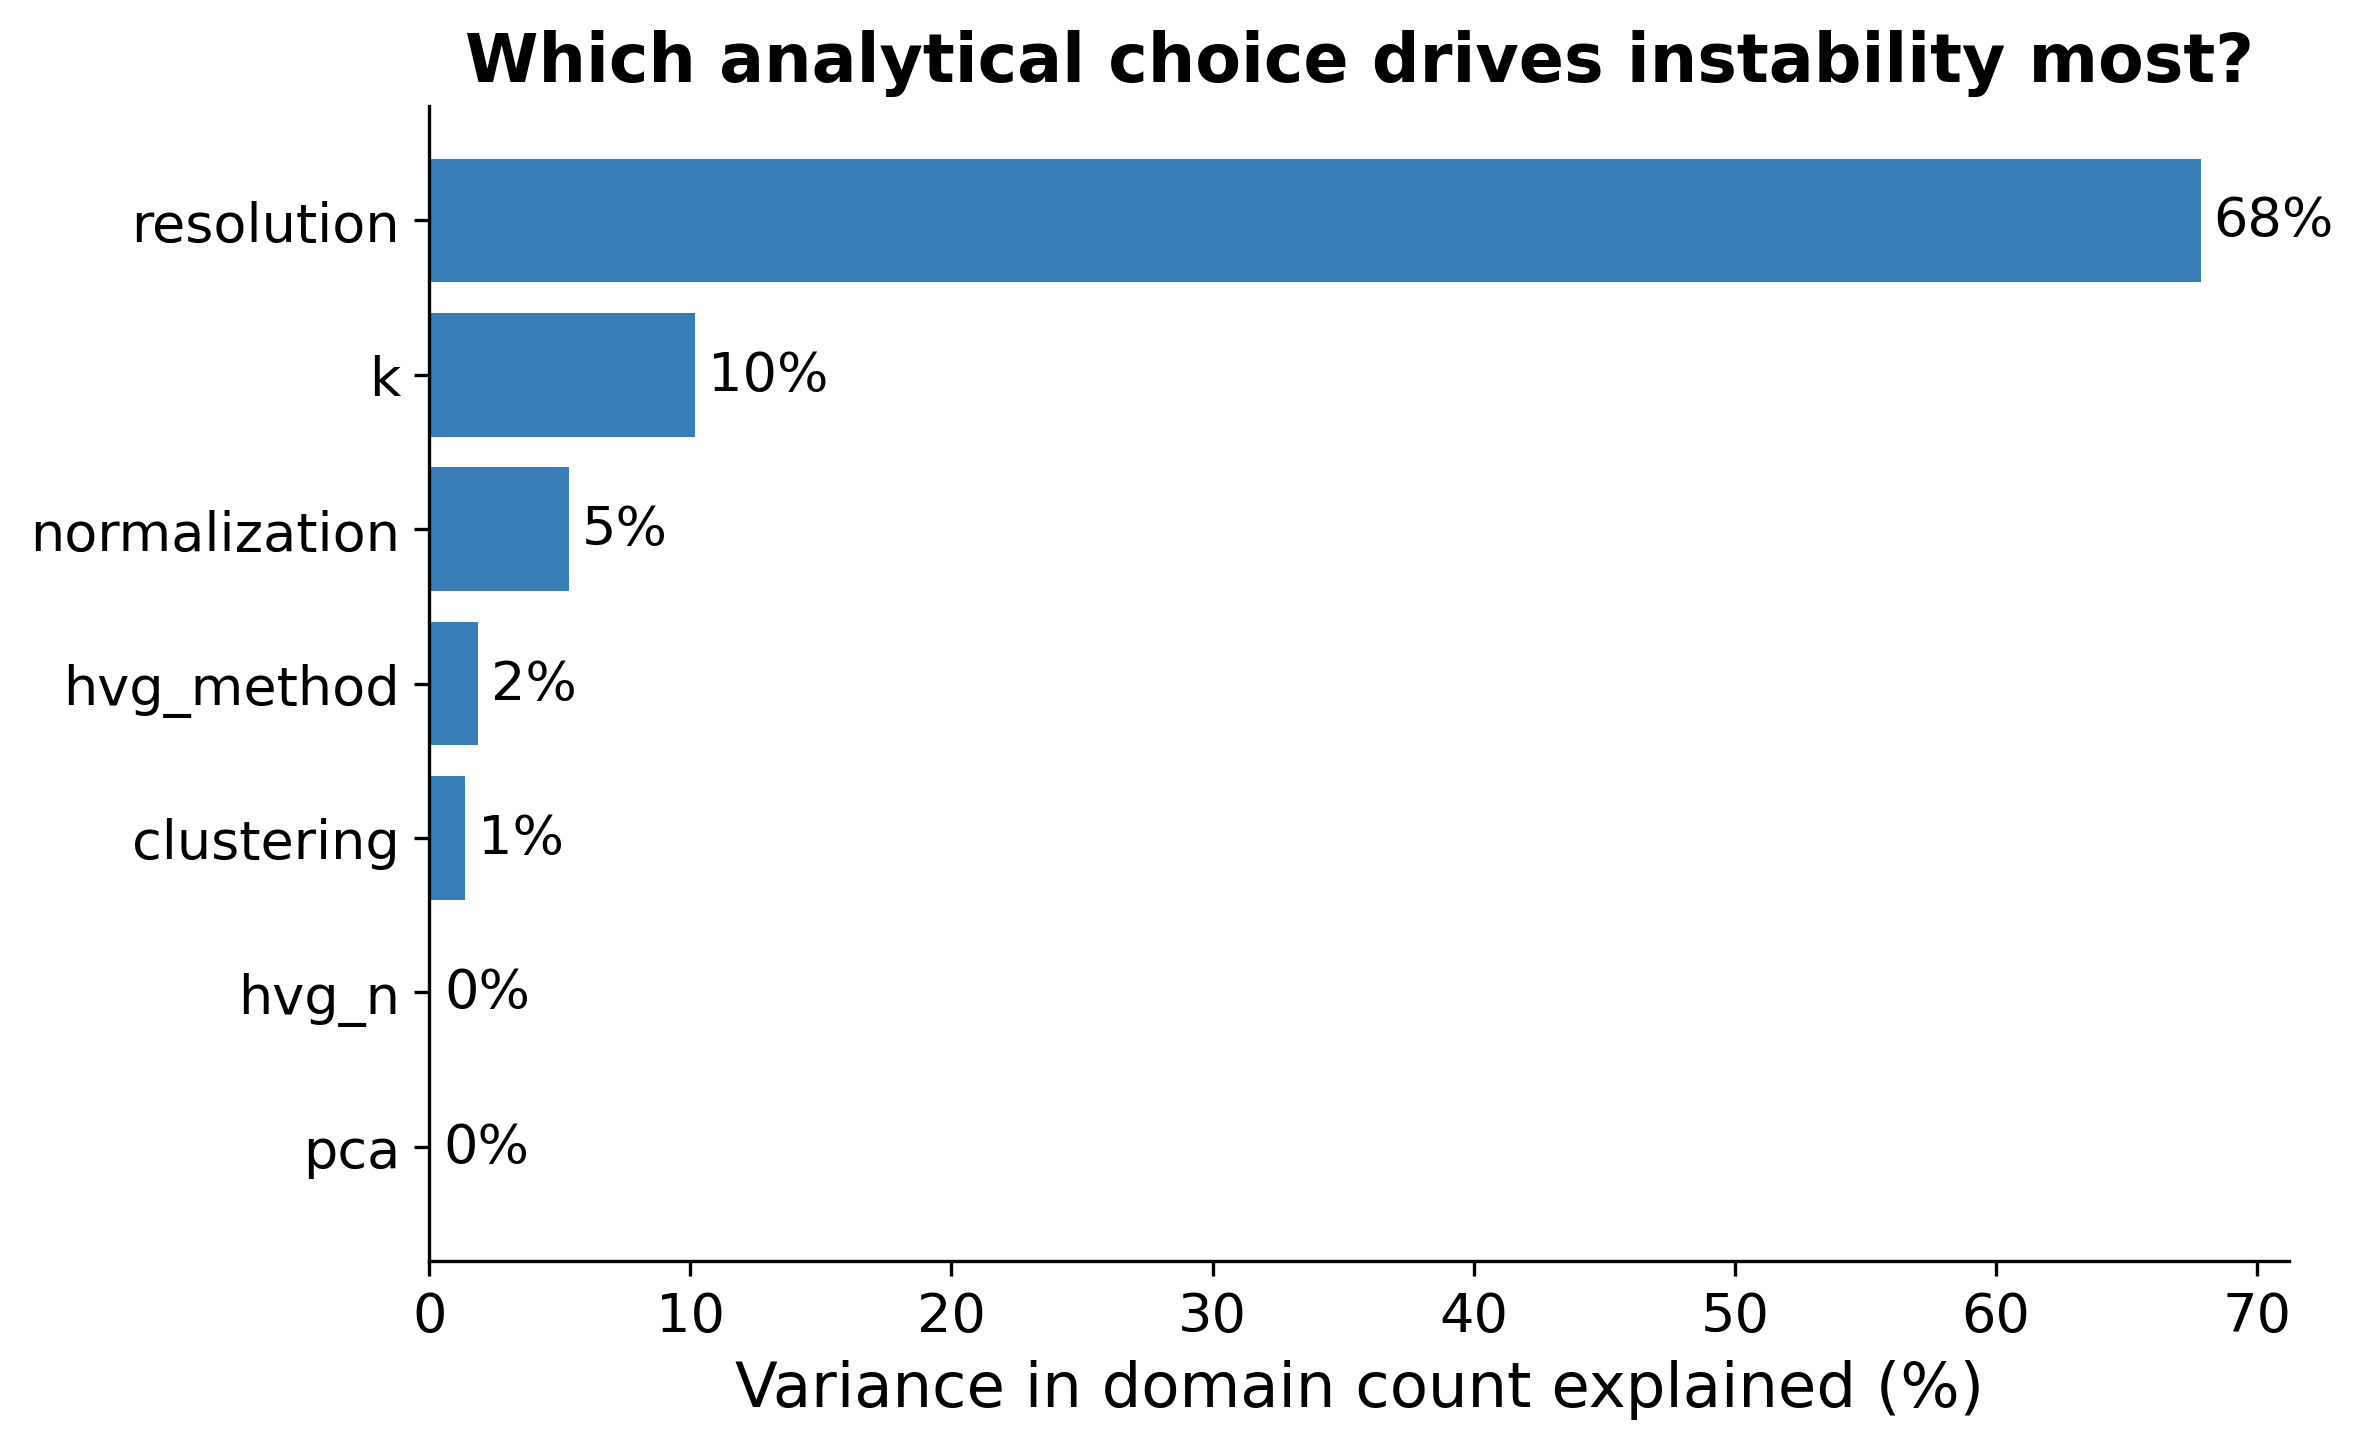
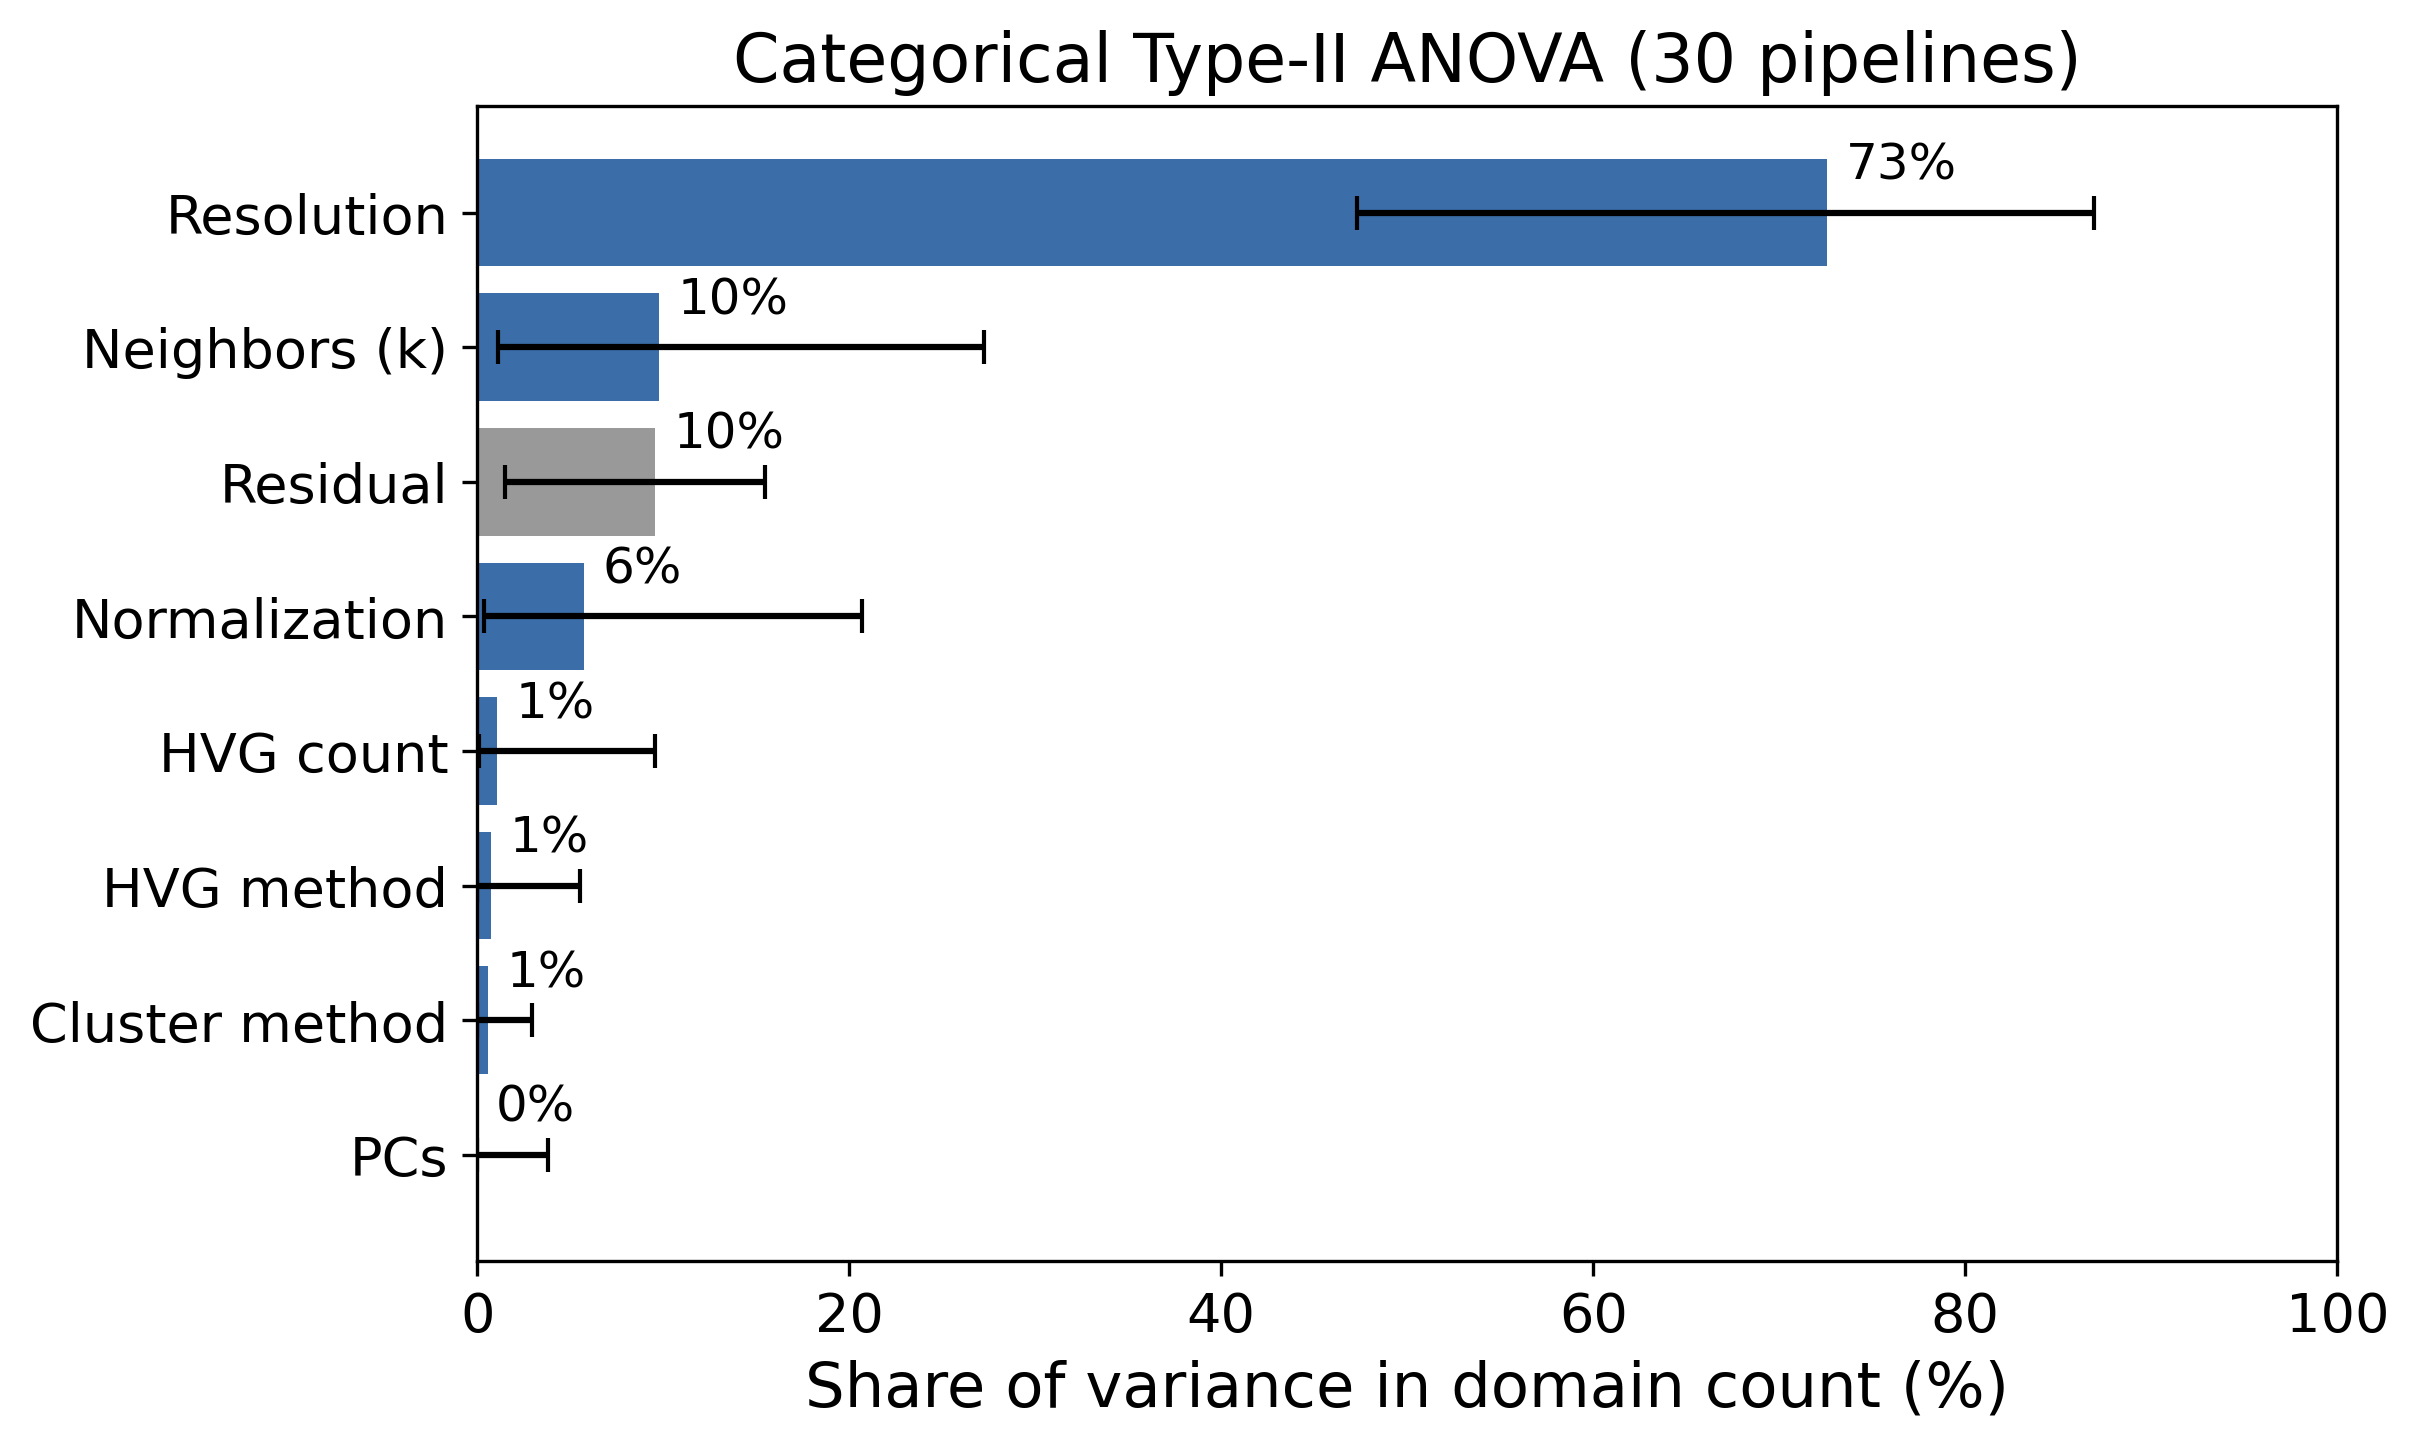
Redraw variance figure from the categorical ANOVA used in the text
Adds --figure to scripts/variance_categorical.py (bars with 95% bootstrap
intervals), so Fig. 3 shows the same shares as the text.

diff --git a/scripts/variance_categorical.py b/scripts/variance_categorical.py
@@ -33,8 +33,45 @@ def shares_with_ci(path, n_boot=1000, seed=0):
     return base, ci, len(df)
 
 
+LABELS = {"res": "Resolution", "k": "Neighbors (k)", "norm": "Normalization",
+          "hvgm": "HVG method", "hvgn": "HVG count", "pc": "PCs",
+          "cl": "Cluster method", "Residual": "Residual"}
+
+
+def plot(path, out, title=None):
+    """Bar chart of categorical shares with 95% bootstrap intervals."""
+    import matplotlib
+    matplotlib.use("Agg")
+    import matplotlib.pyplot as plt
+    try:
+        from mosaic import _paper_style
+        _paper_style()
+    except Exception:
+        pass
+    base, ci, n = shares_with_ci(path)
+    order = base.sort_values().index
+    vals = base[order] * 100
+    lo = np.array([vals[t] - ci.get(t, (base[t], base[t]))[0] * 100 for t in order])
+    hi = np.array([ci.get(t, (base[t], base[t]))[1] * 100 - vals[t] for t in order])
+    fig, ax = plt.subplots(figsize=(8, 5))
+    colors = ["#999999" if t == "Residual" else "#3B6EA8" for t in order]
+    ax.barh([LABELS.get(t, t) for t in order], vals, color=colors,
+            xerr=[np.clip(lo, 0, None), np.clip(hi, 0, None)], capsize=4)
+    for i, v in enumerate(vals):
+        ax.text(v + 1, i + 0.25, f"{v:.0f}%", fontsize=12)
+    ax.set_xlabel("Share of variance in domain count (%)")
+    ax.set_xlim(0, 100)
+    ax.set_title(title or f"Categorical Type-II ANOVA ({n} pipelines)")
+    fig.savefig(out, dpi=300, bbox_inches="tight")
+    plt.close(fig)
+
+
 if __name__ == "__main__":
-    for path in sys.argv[1:]:
+    args = sys.argv[1:]
+    if args and args[0] == "--figure":
+        plot(args[1], args[2])
+        sys.exit(0)
+    for path in args:
         base, ci, n = shares_with_ci(path)
         print(path, n)
         for t in base.sort_values(ascending=False).index:

diff --git a/paper_ieee/main.tex b/paper_ieee/main.tex
@@ -431,9 +431,8 @@ $S^3$ distribution and similar pairwise ARI.
   \includegraphics[width=0.85\linewidth]{08_variance_decomposition.png}
   \caption{Type-II ANOVA shares of variance in domain count for the curated
   mouse-brain pipelines (main effects only; axes correlated, so shares are
-  approximate). The figure fits resolution, $k$, PCs and HVG count as linear
-  terms, so its shares differ by a few points from the all-categorical
-  values in the text.}
+  approximate; every axis categorical). Error bars are 95\% bootstrap
+  intervals from resampling pipelines.}
   \label{fig:variance}
 \end{figure}
 
